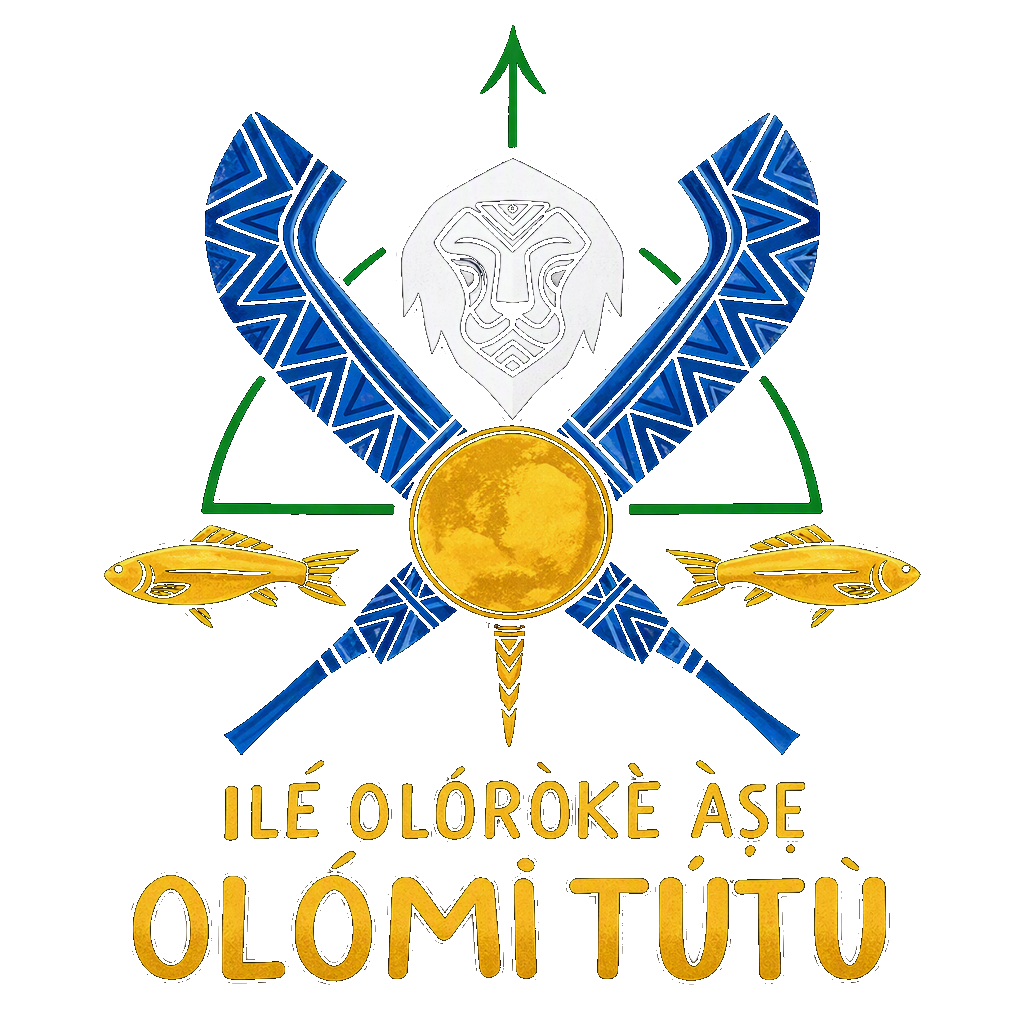
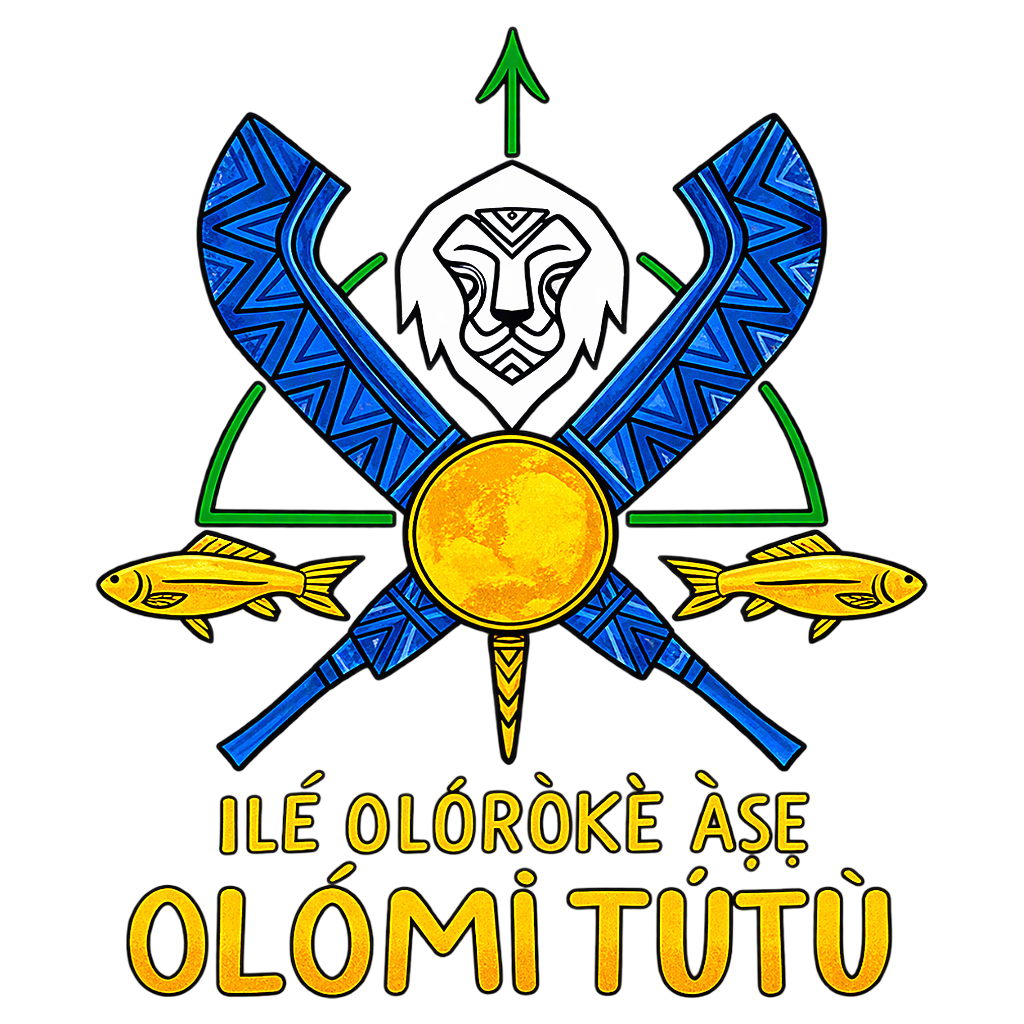
Use beige PWA splash with transparent crest and mobile-safe Biblioteca cards.

Changed region(s): [[0.0938, 0.0312, 0.9062, 1.0]]

diff --git a/app/acervo/page.tsx b/app/acervo/page.tsx
@@ -32,10 +32,10 @@ function KindIcon({ kind }: { kind: LibraryKind }) {
 }
 
 function actionLabel(kind: LibraryKind) {
-  if (kind === "video") return "Assistir →";
-  if (kind === "cantiga") return "Ouvir →";
-  if (kind === "pdf") return "Abrir PDF →";
-  return "Abrir →";
+  if (kind === "video") return "Assistir";
+  if (kind === "cantiga") return "Ouvir";
+  if (kind === "pdf") return "Abrir";
+  return "Abrir";
 }
 
 export default function AcervoPublicoPage() {
@@ -63,7 +63,11 @@ export default function AcervoPublicoPage() {
   const openItem: LibraryItem | undefined = items.find((i) => i.id === openId);
 
   return (
-    <BrandPageShell watermarkVariant="biblioteca">
+    <BrandPageShell
+      watermarkVariant="biblioteca"
+      className="overflow-x-hidden"
+      mainClassName="overflow-x-hidden px-4 sm:px-6"
+    >
       <BrandPageHeader
         title="Biblioteca"
         subtitle="Cantigas, vídeos e materiais da casa."
@@ -72,8 +76,8 @@ export default function AcervoPublicoPage() {
       />
 
       {!openItem ? (
-        <>
-          <label className="relative mt-5 block">
+        <div className="mt-5 box-border w-full max-w-full overflow-x-hidden">
+          <label className="relative block w-full max-w-full">
             <span className="sr-only">Buscar na biblioteca</span>
             <Search className="pointer-events-none absolute left-4 top-1/2 h-4 w-4 -translate-y-1/2 text-navy/40" />
             <input
@@ -84,12 +88,18 @@ export default function AcervoPublicoPage() {
                 setOpenId(null);
               }}
               placeholder="Buscar na biblioteca..."
-              className="w-full rounded-full border-0 bg-white py-3.5 pl-11 pr-4 text-sm text-navy shadow-[0_6px_18px_rgba(11,31,58,0.06)] outline-none ring-1 ring-navy/[0.04] placeholder:text-navy/35 focus:ring-2 focus:ring-gold/40"
+              className="box-border w-full max-w-full rounded-full border-0 bg-white py-3.5 pl-11 pr-4 text-sm text-navy shadow-[0_6px_18px_rgba(11,31,58,0.06)] outline-none ring-1 ring-navy/[0.04] placeholder:text-navy/35 focus:ring-2 focus:ring-gold/40"
             />
           </label>
 
-          <div className="-mx-1 mt-4 overflow-x-auto px-1 pb-1 [-ms-overflow-style:none] [scrollbar-width:none] [&::-webkit-scrollbar]:hidden">
-            <div className="flex w-max gap-2">
+          {/* Chips: scroll horizontal, sem barra visível, sem quebrar a página */}
+          <div
+            className={cn(
+              "mt-4 w-full max-w-full overflow-x-auto overflow-y-hidden",
+              "[-ms-overflow-style:none] [scrollbar-width:none] [&::-webkit-scrollbar]:hidden",
+            )}
+          >
+            <div className="flex w-max gap-2 pr-1">
               {filters.map((f) => {
                 const active = filter === f.id;
                 return (
@@ -101,7 +111,7 @@ export default function AcervoPublicoPage() {
                       setOpenId(null);
                     }}
                     className={cn(
-                      "shrink-0 rounded-full px-3.5 py-2 text-xs font-semibold transition",
+                      "box-border shrink-0 rounded-full px-3.5 py-2 text-xs font-semibold transition",
                       active
                         ? "bg-navy text-white shadow-soft"
                         : "bg-white text-navy ring-1 ring-navy/10",
@@ -114,36 +124,69 @@ export default function AcervoPublicoPage() {
             </div>
           </div>
 
-          <div className="mt-4 grid gap-3">
+          <div className="mt-4 grid w-full max-w-full gap-3">
             {items.map((item) => (
               <button
                 key={item.id}
                 type="button"
                 onClick={() => setOpenId(item.id)}
-                className="flex w-full items-center gap-3 rounded-[18px] bg-white px-3.5 py-3.5 text-left shadow-[0_6px_18px_rgba(11,31,58,0.06)] ring-1 ring-black/[0.03] transition active:scale-[0.99]"
+                className={cn(
+                  "box-border flex w-full max-w-full items-center gap-3",
+                  "rounded-[18px] bg-white px-3.5 py-3.5 text-left",
+                  "shadow-[0_6px_18px_rgba(11,31,58,0.06)] ring-1 ring-black/[0.03]",
+                  "transition active:scale-[0.99]",
+                )}
               >
+                {/* 1) Ícone — tamanho fixo, não encolhe */}
                 <span className="flex h-12 w-12 shrink-0 items-center justify-center rounded-full bg-[#efe6d0]">
                   <KindIcon kind={item.kind} />
                 </span>
-                <div className="min-w-0 flex-1">
-                  <p className="truncate text-[15px] font-semibold text-navy">
-                    {item.title}
-                  </p>
-                  <p className="mt-0.5 truncate text-xs text-navy/45">
-                    {item.description
-                      ? `${LIBRARY_KIND_LABEL[item.kind]} · ${item.description}`
-                      : LIBRARY_KIND_LABEL[item.kind]}
-                  </p>
-                  <span className="mt-2 inline-flex rounded-full bg-[#efe6d0] px-2.5 py-0.5 text-[10px] font-semibold text-navy">
-                    {LIBRARY_KIND_LABEL[item.kind]}
+
+                {/* 2+3) Texto + botão — em <380px o botão desce / vira seta */}
+                <div
+                  className={cn(
+                    "flex min-w-0 flex-1 items-center gap-3",
+                    "max-[379px]:flex-col max-[379px]:items-stretch",
+                  )}
+                >
+                  <div className="min-w-0 flex-1">
+                    <p className="line-clamp-2 break-words text-[15px] font-semibold leading-snug text-navy">
+                      {item.title}
+                    </p>
+                    <p className="mt-0.5 line-clamp-2 break-words text-xs leading-snug text-navy/45">
+                      {item.description
+                        ? `${LIBRARY_KIND_LABEL[item.kind]} · ${item.description}`
+                        : LIBRARY_KIND_LABEL[item.kind]}
+                    </p>
+                  </div>
+
+                  {/* Botão Abrir — não encolhe; ≥44px de toque; em telas estreitas = seta */}
+                  <span
+                    className={cn(
+                      "inline-flex shrink-0 items-center justify-center",
+                      "min-h-11 min-w-11",
+                      "max-[379px]:self-end",
+                    )}
+                    aria-hidden
+                  >
+                    <span
+                      className={cn(
+                        "hidden min-[380px]:inline-flex",
+                        "min-h-11 items-center rounded-full bg-[#e8d5a3] px-3.5 text-[11px] font-semibold text-navy",
+                      )}
+                    >
+                      {actionLabel(item.kind)}
+                    </span>
+                    <span
+                      className={cn(
+                        "inline-flex min-h-11 min-w-11 items-center justify-center rounded-full bg-[#e8d5a3] text-navy",
+                        "min-[380px]:hidden",
+                      )}
+                    >
+                      <ChevronRight className="h-5 w-5" strokeWidth={2.25} />
+                    </span>
                   </span>
                 </div>
-                <span className="flex shrink-0 flex-col items-end gap-2">
-                  <span className="rounded-full bg-[#e8d5a3] px-3 py-1.5 text-[11px] font-semibold text-navy">
-                    {actionLabel(item.kind)}
-                  </span>
-                  <ChevronRight className="h-4 w-4 text-navy/30" strokeWidth={2} />
-                </span>
               </button>
             ))}
             {items.length === 0 ? (
@@ -161,24 +204,24 @@ export default function AcervoPublicoPage() {
               />
             ) : null}
           </div>
-        </>
+        </div>
       ) : (
-        <div className="mt-5 rounded-[18px] bg-white p-4 shadow-[0_6px_18px_rgba(11,31,58,0.06)] ring-1 ring-black/[0.03]">
+        <div className="mt-5 box-border w-full max-w-full rounded-[18px] bg-white p-4 shadow-[0_6px_18px_rgba(11,31,58,0.06)] ring-1 ring-black/[0.03]">
           <button
             type="button"
-            className="text-sm font-medium text-navy/55 hover:text-navy"
+            className="min-h-11 text-sm font-medium text-navy/55 hover:text-navy"
             onClick={() => setOpenId(null)}
           >
             ← Voltar à lista
           </button>
-          <h2 className="mt-3 font-display text-2xl text-navy">{openItem.title}</h2>
+          <h2 className="mt-3 break-words font-display text-2xl text-navy">{openItem.title}</h2>
           {openItem.description ? (
-            <p className="mt-2 text-sm text-navy/65">{openItem.description}</p>
+            <p className="mt-2 break-words text-sm text-navy/65">{openItem.description}</p>
           ) : null}
           <span className="mt-3 inline-flex rounded-full bg-[#efe6d0] px-2.5 py-0.5 text-[10px] font-semibold text-navy">
             {LIBRARY_KIND_LABEL[openItem.kind]}
           </span>
-          <div className="mt-4">
+          <div className="mt-4 max-w-full overflow-x-hidden">
             <LibraryPlayer item={openItem} />
           </div>
         </div>

diff --git a/app/layout.tsx b/app/layout.tsx
@@ -12,20 +12,20 @@ export const metadata: Metadata = {
   manifest: "/manifest.webmanifest",
   icons: {
     icon: [
-      { url: "/icon-192.png", sizes: "192x192", type: "image/png" },
-      { url: "/icon-512.png", sizes: "512x512", type: "image/png" },
+      { url: "/icon-192.png?v=3", sizes: "192x192", type: "image/png" },
+      { url: "/icon-512.png?v=3", sizes: "512x512", type: "image/png" },
     ],
-    apple: [{ url: "/apple-touch-icon.png", sizes: "180x180", type: "image/png" }],
+    apple: [{ url: "/apple-touch-icon.png?v=3", sizes: "180x180", type: "image/png" }],
   },
   appleWebApp: {
     capable: true,
     title: "OLÓMÌ TÚTÙ",
-    statusBarStyle: "black-translucent",
+    statusBarStyle: "default",
   },
 };
 
 export const viewport: Viewport = {
-  themeColor: "#0B326B",
+  themeColor: "#E9DFCC",
   width: "device-width",
   initialScale: 1,
   maximumScale: 1,
@@ -66,13 +66,13 @@ export default async function RootLayout({ children }: { children: React.ReactNo
             display: "flex",
             alignItems: "center",
             justifyContent: "center",
-            background: "#0B326B",
+            background: "#E9DFCC",
           }}
           aria-hidden
         >
           {/* eslint-disable-next-line @next/next/no-img-element */}
           <img
-            src="/brasao-olomi-tutu.png?v=2"
+            src="/brasao-olomi-tutu.png?v=3"
             alt="Brasão Ilé Olóròkè Àṣẹ Olómi Tútù"
             width={1024}
             height={1024}
@@ -81,7 +81,7 @@ export default async function RootLayout({ children }: { children: React.ReactNo
               width: "min(65vw, 320px)",
               height: "auto",
               objectFit: "contain",
-              filter: "drop-shadow(0 4px 12px rgba(0, 0, 0, 0.25))",
+              filter: "drop-shadow(0 4px 12px rgba(0, 0, 0, 0.18))",
               opacity: 1,
               mixBlendMode: "normal",
               background: "transparent",

diff --git a/components/hub/hub-landing.tsx b/components/hub/hub-landing.tsx
@@ -9,7 +9,6 @@ import {
   ShoppingBag,
   Swords,
 } from "lucide-react";
-import { BrandMark } from "@/components/brand/logo";
 import { BrandPageShell } from "@/components/brand/brand-page-shell";
 import { CLIENT_WHATSAPP, openWhatsApp } from "@/lib/client-whatsapp";
 import type { HubEntry } from "@/lib/hub-entries";
@@ -44,8 +43,7 @@ export function HubLanding({ entries }: Props) {
   return (
     <BrandPageShell watermarkVariant="home" entries={entries} mainClassName="pt-4 sm:pt-6">
       <header className="animate-rise flex flex-col items-center px-0 text-center">
-        <BrandMark hero className="hub-emblem" priority />
-        <div className="mt-3 space-y-1.5 sm:mt-4">
+        <div className="space-y-1.5">
           <p className="text-[19px] font-bold leading-tight text-navy sm:text-[21px]">
             Bem-vindo(a)!
           </p>

diff --git a/public/sw.js b/public/sw.js
@@ -1,5 +1,5 @@
 /* Service worker — PWA + notificações com logo do app */
-const SW_VERSION = "oloroke-notif-v12-brasao-size";
+const SW_VERSION = "oloroke-notif-v13-splash-beige";
 
 function appOrigin() {
   return self.location.origin;
@@ -21,11 +21,13 @@ self.addEventListener("install", (event) => {
       .open(SW_VERSION)
       .then((cache) =>
         cache.addAll([
-          "/icon-192.png",
-          "/icon-512.png",
-          "/apple-touch-icon.png",
-          "/brasao-olomi-tutu.png?v=2",
-          "/splash.png",
+          "/icon-192.png?v=3",
+          "/icon-512.png?v=3",
+          "/icon-512-maskable.png?v=3",
+          "/apple-touch-icon.png?v=3",
+          "/brasao-olomi-tutu.png?v=3",
+          "/splash.png?v=3",
+          "/manifest.webmanifest",
         ]),
       )
       .then(() => self.skipWaiting())

diff --git a/components/brand/logo.tsx b/components/brand/logo.tsx
@@ -1,7 +1,7 @@
 import { cn } from "@/lib/utils";
 
 /** ?v= força refresh quando o SW/browser ainda guarda o PNG antigo */
-export const BRASAO_SRC = "/brasao-olomi-tutu.png?v=2";
+export const BRASAO_SRC = "/brasao-olomi-tutu.png?v=3";
 export const BRASAO_ALT = "Brasão Ilé Olóròkè Àṣẹ Olómi Tútù";
 
 /**
